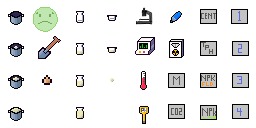
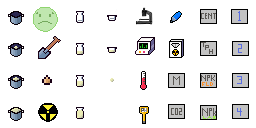
Added inverse square law to radiation sensor

Changed region(s): [[0.125, 0.7812, 0.25, 0.9688]]

diff --git a/src/ObjectModel.py b/src/ObjectModel.py
@@ -3,6 +3,7 @@
 import SpriteLibrary
 from Layer import Layer
 from ActionSuccess import *
+from ScienceHelpers import *
 import random
 import json
 import copy
@@ -248,14 +249,14 @@ class Object:
                 # Add self
                 out.append(obj)
                 # Add children
-                out.extend(obj.getAllContainedObjectsAndParts())
+                out.extend(obj.getAllContainedObjectsAndParts(includeContents, includeParts))
 
         if (includeParts):
             for obj in self.parts:
                 # Add self
                 out.append(obj)
                 # Add children
-                out.extend(obj.getAllContainedObjectsAndParts())
+                out.extend(obj.getAllContainedObjectsAndParts(includeContents, includeParts))
 
         # Return
         return list(set(out))
@@ -1549,9 +1550,7 @@ class RadiationMeter(Object):
     #
     #   Actions (use with)
     #
-    def actionUseWith(self, patientObj):
-        avgRadiationBackgroundLevelUSVH = 0.05        # Average background radiation level in USV/h
-
+    def actionUseWith(self, patientObj):        
         # Use this object on the patient object        
         useDescriptionStr = "You use the radiation meter to investigate the " + patientObj.name + ".\n"
 
@@ -1573,20 +1572,27 @@ class RadiationMeter(Object):
         # If there are radiation levels, say the results are inconclusive.
         # TODO: Just use background rate, then?
         if (len(radiationLevels) == 0):
-            useDescriptionStr += "The results are inconclusive.\n"
-            return ActionSuccess(True, useDescriptionStr, importance=MessageImportance.HIGH)
+            radiationLevels = [0]
+            #useDescriptionStr += "The results are inconclusive.\n"
+            #return ActionSuccess(True, useDescriptionStr, importance=MessageImportance.HIGH)
 
-        # Calculate the radiation level (sum of all radiation levels of each material)
+        # Calculate the radiation level of this object (sum of all radiation levels of each material)
         radiationLevelMicroSeivertsPerHour = sum(radiationLevels)
-        # Add a random amount of background radiation.  First, generate a number between 0-avgRadiationBackgroundLevelUSVH
-        backgroundRadiation = random.random() * avgRadiationBackgroundLevelUSVH
+        # Add a random amount of background radiation, drawn from the current background radiation rate.  First, generate a number between 0-avgRadiationBackgroundLevelUSVH
+        backgroundRadiation = random.random() * self.world.parameters["avgRadiationBackgroundLevelUSVH"]
         # Add the background radiation to the radiation level
         radiationLevelMicroSeivertsPerHour += backgroundRadiation
+
+        # Also add the radiation from any objects near this location, using the inverse square law. 
+        backgroundNearLocation = getRadiationLevelAroundLocation(self.world, self.attributes["gridX"], self.attributes["gridY"], excludeObject=patientObj, windowSize=5)
+        radiationLevelMicroSeivertsPerHour += backgroundNearLocation
 
         # TODO: Also add the radiation from any other objects near this location.
                 
         # Report the radiation level (to 2 decimal place(s)
         useDescriptionStr += "The radiation meter reports a level of " + "{:.2f}".format(radiationLevelMicroSeivertsPerHour) + " micro Seiverts per hour.\n"
+        useDescriptionStr += "DEBUG:\n Background radiation: " + "{:.2f}".format(backgroundRadiation) + " micro Seiverts per hour.\n"
+        useDescriptionStr += "DEBUG:\n Background near location: " + "{:.2f}".format(backgroundNearLocation) + " micro Seiverts per hour.\n"
 
         return ActionSuccess(True, useDescriptionStr, importance=MessageImportance.HIGH)
     #
@@ -2352,3 +2358,9 @@ class FlowerPot(Object):
     def tick(self):
         # Call superclass
         Object.tick(self)    
+
+
+#
+#   Object: Radioactive Check Source
+#
+

diff --git a/src/World.py b/src/World.py
@@ -20,6 +20,11 @@ class World:
         self.sizeX = 32
         self.sizeY = 32
 
+        # Default parameters of the world that can change (like background radiation level)
+        self.parameters = {
+            "avgRadiationBackgroundLevelUSVH": 0.05        # Average background radiation level in uSV/h
+        }
+
         # UUID Generator
         self.uuidGenerator = UUIDGenerator()
 
@@ -133,7 +138,7 @@ class World:
 
 
     # Get all objects at a given position
-    def getObjectsAt(self, x, y, respectContainerStatus=False):
+    def getObjectsAt(self, x, y, respectContainerStatus=False, includeParts=False):
         # Bound checking: Make sure the object is within the world bounds
         if x < 0 or x >= self.sizeX or y < 0 or y >= self.sizeY:
             print("Error: Object out of bounds: " + str(x) + ", " + str(y))
@@ -149,7 +154,11 @@ class World:
                 #print("\t\t\t\tLayer: " + str(layer) + " (" + str(len(objsToAdd)) + " objects)") 
                 for obj in objsToAdd:
                     objects.append(obj)
-                    contents = obj.getAllContainedObjectsRecursive(respectContainerStatus=respectContainerStatus)
+                    contents = []
+                    if (includeParts == False):
+                        contents = obj.getAllContainedObjectsRecursive(respectContainerStatus=respectContainerStatus)
+                    else:
+                        contents = obj.getAllContainedObjectsAndParts(includeContents=True, includeParts=True)
                     if (len(contents) > 0):
                         #print("Contents of " + obj.name + ": " + str(contents))
                         objects += contents

diff --git a/src/main.py b/src/main.py
@@ -176,6 +176,8 @@ def mkScienceLab(x, y, world, buildingMaker):
     world.addObject(x+3, y+3, Layer.OBJECTS, world.createObject("mushroom1"))
     world.addObject(x+4, y+3, Layer.OBJECTS, world.createObject("mushroom2"))
 
+    # Add a radioactive check source
+    world.addObject(x+6, y+1, Layer.OBJECTS, world.createObject("radioactivechecksource"))
 
 
 
